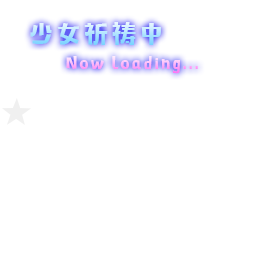
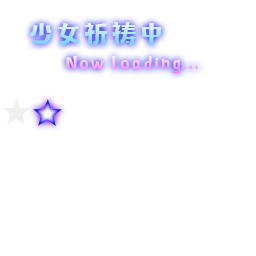
Add star particles around nowLoading.

Changed region(s): [[0.125, 0.375, 0.25, 0.5]]

diff --git a/THXYY/src/Scene/Select/SelectScene.cpp b/THXYY/src/Scene/Select/SelectScene.cpp
@@ -71,6 +71,37 @@ void SelectScene::Update()
 		StarParticle* particle = new StarParticle();
 		this->bgrLayer->AddChild(particle);
 	}
+
+	if (nowLoading)
+	{
+		frame_nowLoading++;
+		if (frame_nowLoading == 4)
+		{
+			frame_nowLoading = 0;
+			Particle3D* particle = new Particle3D();
+			particle->SetTexture(this->texLoading);
+			particle->SetTexRect(Rect(32, 64, 96, 128));
+			particle->SetPosition(Vector3f(Random(416, 640), 128, 50));
+			particle->SetSpeed(1.0f + Random(0, 200) / 100.0f);
+			particle->SetLife(30);
+			particle->SetRotatingAxis(Vector3f(0, 0, 1));
+			particle->SetAlpha(0);
+			particle->SetRotatingSpeed(Random(100, 500) / 100.0f);
+
+			float scale = Random(50, 100) / 100.0f;
+			particle->SetScale(Vector3f(scale, scale, 1));
+			float rad = ToRad(Random(0, 90) + 225);
+			particle->SetDirection(Vector3f(cos(rad), sin(rad), 0));
+
+			TweenSequence* sequence = new TweenSequence();
+			sequence->AddTween(new FadeTo(0.8f, 10, Tweener::EASE_OUT));
+			sequence->AddTween(new Delay(10));
+			sequence->AddTween(new FadeOut(10, Tweener::EASE_OUT));
+			particle->AddTween(sequence);
+
+			this->blackLayer->AddChild(particle);
+		}
+	}
 }
 
 void SelectScene::ShowRank()
@@ -103,8 +134,8 @@ void SelectScene::Back()
 
 void SelectScene::StartGame()
 {
-	Layer* blackLayer = new Layer();
-	AddLayer(blackLayer);
+	this->blackLayer = new Layer();
+	AddLayer(this->blackLayer);
 
 	Sprite* black = new Sprite();
 	black->SetPosition(Vector3f(320, 240, 100));
@@ -126,9 +157,11 @@ void SelectScene::StartGame()
 	loading->AddTween(new FadeTo(1.0f, 18, Tweener::SIMPLE));
 	blackLayer->AddChild(loading);
 
+	this->nowLoading = true;
+
 	FrameTimer* timer = new FrameTimer();
 	timer->SetFrame(GO_TO_NEXT_SCENE_TIME);
-	timer->run = [blackLayer]() {
+	timer->run = [this]() {
 		auto engine = STGEngine::GetInstance();
 		auto global = Global::GetInstance();
 
@@ -136,13 +169,13 @@ void SelectScene::StartGame()
 		global->stageEnum = Global::STAGE_01;
 		global->playerEnum = Global::REIMU;
 		GameScene* scene = new GameScene();
-		Game::GetInstance()->LoadSceneAsync(scene, 18, [blackLayer]() {
+		Game::GetInstance()->LoadSceneAsync(scene, 18, [this]() {
 			Sprite* black2 = new Sprite();
 			black2->SetPosition(Vector3f(320, 240, 0));
 			black2->SetTexture(Global::GetInstance()->texBlack);
 			black2->SetAlpha(0);
 			black2->AddTween(new FadeTo(1.0f, 18, Tweener::SIMPLE));
-			blackLayer->AddChild(black2);
+			this->blackLayer->AddChild(black2);
 		});
 	};
 	GetScheduler()->AddTimer(timer);

diff --git a/THXYY/src/Scene/Select/SelectScene.h b/THXYY/src/Scene/Select/SelectScene.h
@@ -15,11 +15,14 @@ private:
 	Texture* texLoading = nullptr;
 
 	Layer* bgrLayer = nullptr;
+	Layer* blackLayer = nullptr;
 	RankSelectMenu* rankSelectMenu = nullptr;
 
 	SelectTitle* title = nullptr;
 
 	int frame = 0;
+	int frame_nowLoading = 0;
+	bool nowLoading = false;
 
 public:
 	SelectScene();
